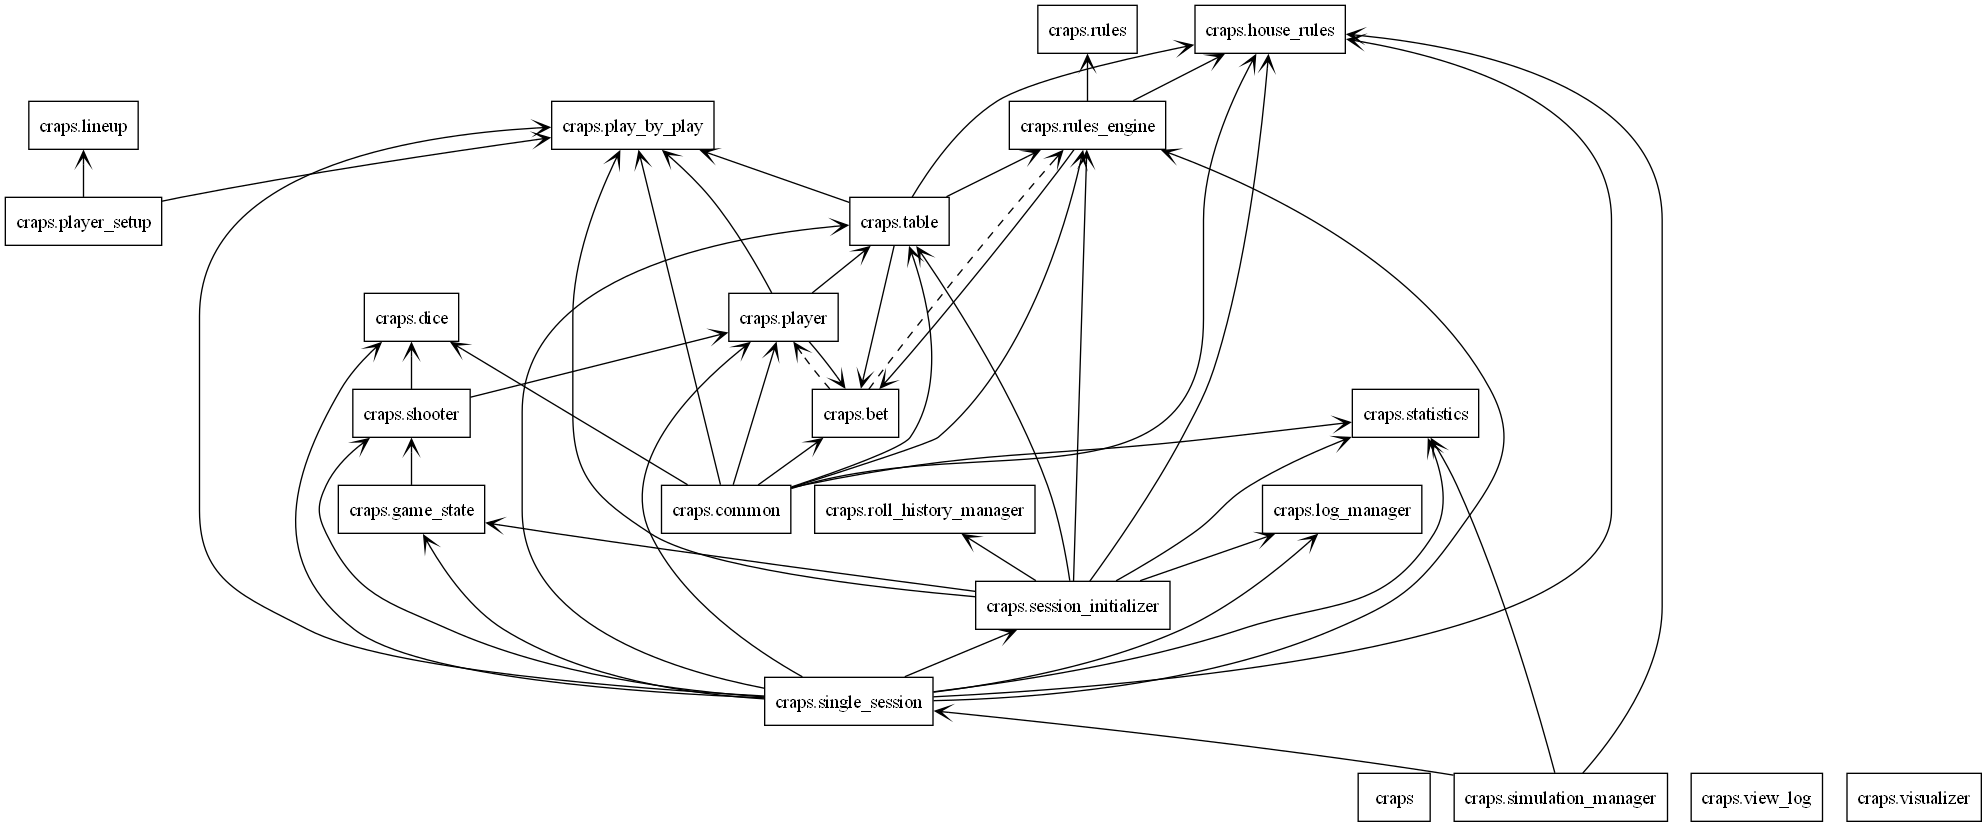
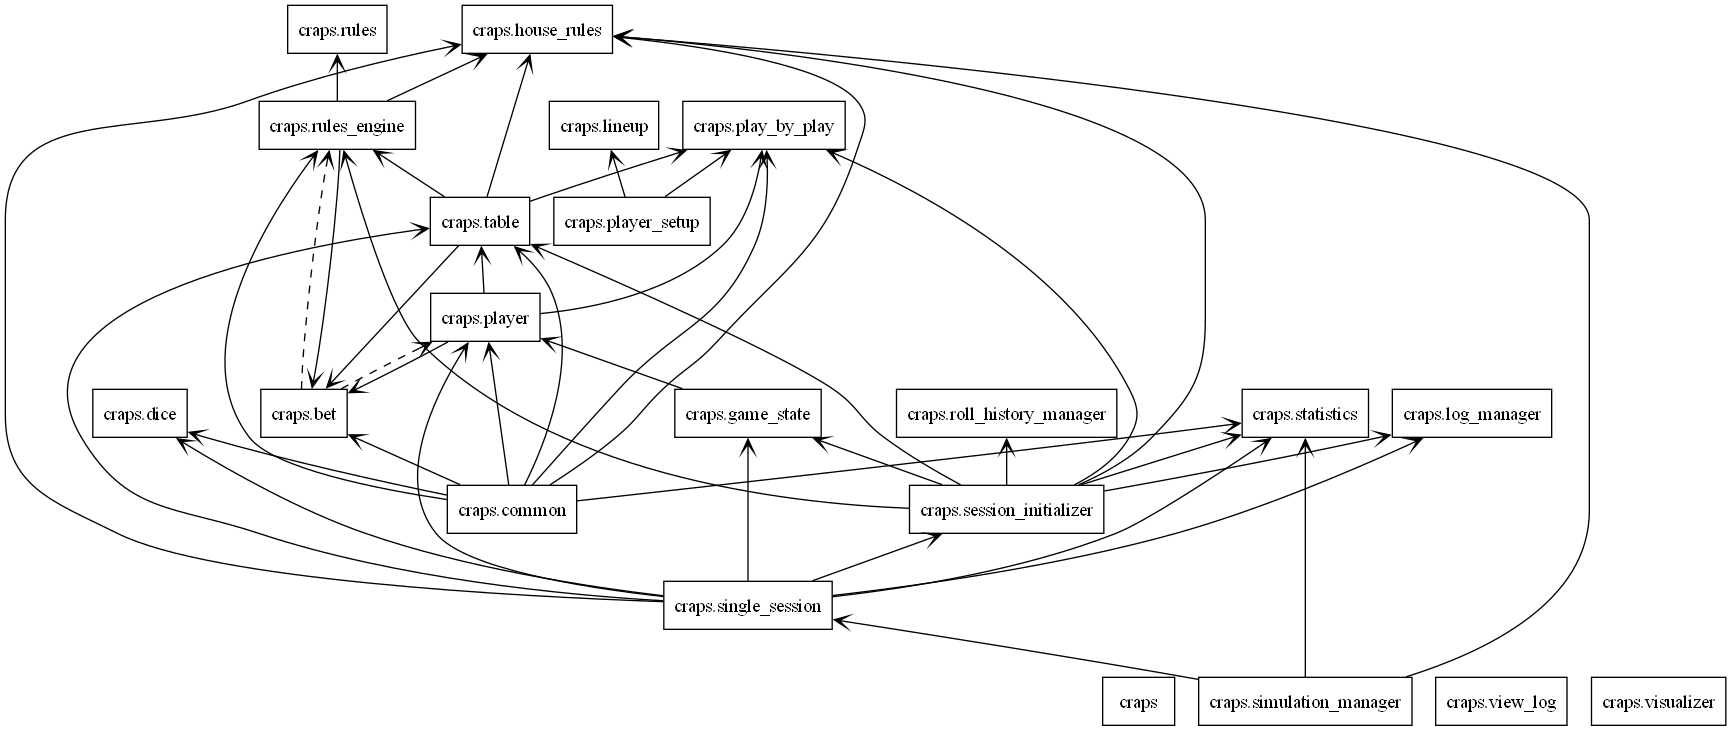
Removed Shooter

diff --git a/craps/single_session.py b/craps/single_session.py
@@ -3,11 +3,8 @@ from typing import List, Optional, Any
 from craps.table import Table
 from craps.game_state import GameState
 from craps.player import Player
-from craps.shooter import Shooter
 from craps.dice import Dice
 from craps.statistics import Statistics
-from craps.rules_engine import RulesEngine
-from craps.play_by_play import PlayByPlay
 from craps.house_rules import HouseRules
 from craps.log_manager import LogManager
 from craps.session_initializer import InitializeSession
@@ -58,10 +55,10 @@ def run_single_session(
 
     # Simulate shooters
     for shooter_num in range(1, num_shooters + 1):
-        player_index = (shooter_num - 1) % len(players)  # Define player_index
-        shooter = Shooter(name=players[player_index].name, dice=dice)  # Create Shooter
+        player_index = (shooter_num - 1) % len(players)
+        shooter = players[player_index]
 
-        # Assign new shooter through GameState
+        # Assign new shooter via GameState
         game_state.assign_new_shooter(shooter)
 
         while True:
@@ -69,10 +66,10 @@ def run_single_session(
             for player in players:
                 bet = player.betting_strategy.get_bet(game_state, player, table)
                 if bet:
-                    player.place_bet(bet, table, game_state.phase, play_by_play)  # Pass play_by_play
+                    player.place_bet(bet, table, game_state.phase, play_by_play)
 
             # Roll the dice and resolve bets
-            outcome = shooter.roll_dice()
+            outcome = (dice.roll())  # Now returns Tuple[int, int]
             total = sum(outcome)
             stats.update_rolls()
             stats.update_shooter_stats(shooter)
@@ -117,7 +114,8 @@ def run_single_session(
             # Check if the shooter 7-outs
             if previous_phase == "point" and total == 7:
                 stats.record_seven_out()
-                break  # Move to the next shooter
+                game_state.clear_shooter()  # Reset shooter status
+                break  # Move to next shooter
 
     # Return stats and roll history
     stats.roll_history = roll_history

diff --git a/craps/player.py b/craps/player.py
@@ -1,8 +1,9 @@
 from colorama import Fore, Style
-from typing import List, Union, Optional, Any
+from typing import List, Union, Optional, Any, Tuple
 from craps.bet import Bet
 from craps.table import Table
 from craps.play_by_play import PlayByPlay
+import random
 
 class Player:
     def __init__(self, name: str, initial_balance: int = 500, betting_strategy: Optional[Any] = None):
@@ -12,11 +13,11 @@ class Player:
         :param name: The name of the player.
         :param initial_balance: The initial bankroll of the player.
         :param betting_strategy: The betting strategy used by the player.
-        :param play_by_play: The PlayByPlay instance for writing play-by-play messages.
         """
         self.name: str = name
         self.balance: int = initial_balance
         self.betting_strategy: Any = betting_strategy
+        self.is_shooter: bool = False
 
     def place_bet(self, bet: Union[Bet, List[Bet]], table: Table, phase: str, play_by_play: PlayByPlay) -> bool:
         """
@@ -82,3 +83,20 @@ class Player:
             bet.owner == self and bet.bet_type == bet_type and (number is None or bet.number == number)
             for bet in table.bets
         )
+
+    def roll_dice(self) -> Tuple[int, int]:
+        """
+        Roll the dice if this player is the shooter.
+
+        :return: A tuple representing the dice roll (e.g., (3, 4)).
+        """
+        if self.is_shooter:
+            return random.randint(1, 6), random.randint(1, 6)
+        else:
+            raise ValueError(f"{self.name} is not the shooter and cannot roll dice.")
+
+    def reset_shooter(self) -> None:
+        """
+        Reset the shooter status when a new round begins.
+        """
+        self.is_shooter = False

diff --git a/craps/game_state.py b/craps/game_state.py
@@ -1,6 +1,6 @@
 from typing import List, Optional, Any, Tuple
 from colorama import Fore, Style
-from craps.shooter import Shooter
+from craps.player import Player
 
 class GameState:
     def __init__(self, stats: Any, play_by_play: Optional[Any] = None) -> None:
@@ -14,22 +14,30 @@ class GameState:
         self.previous_point: Optional[int] = None  # Track the last point before changes
         self.stats = stats
         self.play_by_play = play_by_play
-        self.shooter: Optional[Shooter] = None  # Store current shooter
+        self.shooter: Optional[Player] = None  # Store current shooter (now a Player)
 
     def set_table(self, table: Any) -> None:
         """Set the table reference."""
         self.table = table
 
-    def assign_new_shooter(self, shooter: Shooter) -> None:
+    def assign_new_shooter(self, shooter: Player) -> None:
         """
         Assigns a new shooter and resets their stats.
 
         :param shooter: The new shooter for the game.
         """
         self.shooter = shooter
-        self.shooter.reset_shooter()
+        self.shooter.is_shooter = True  # Mark player as the shooter
         if self.play_by_play:
             self.play_by_play.write(f"🎲 New shooter: {self.shooter.name} steps up!")
+
+    def clear_shooter(self) -> None:
+        """
+        Clears the current shooter when a new shooter is needed.
+        """
+        if self.shooter:
+            self.shooter.is_shooter = False
+        self.shooter = None
 
     @property
     def point(self) -> Optional[int]:
